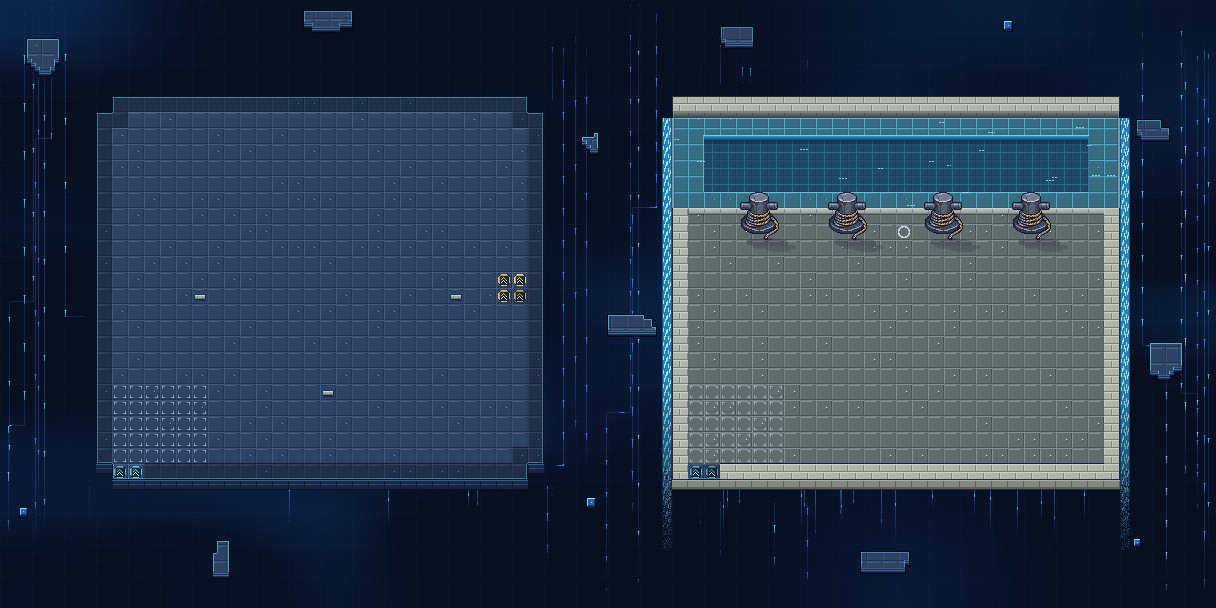
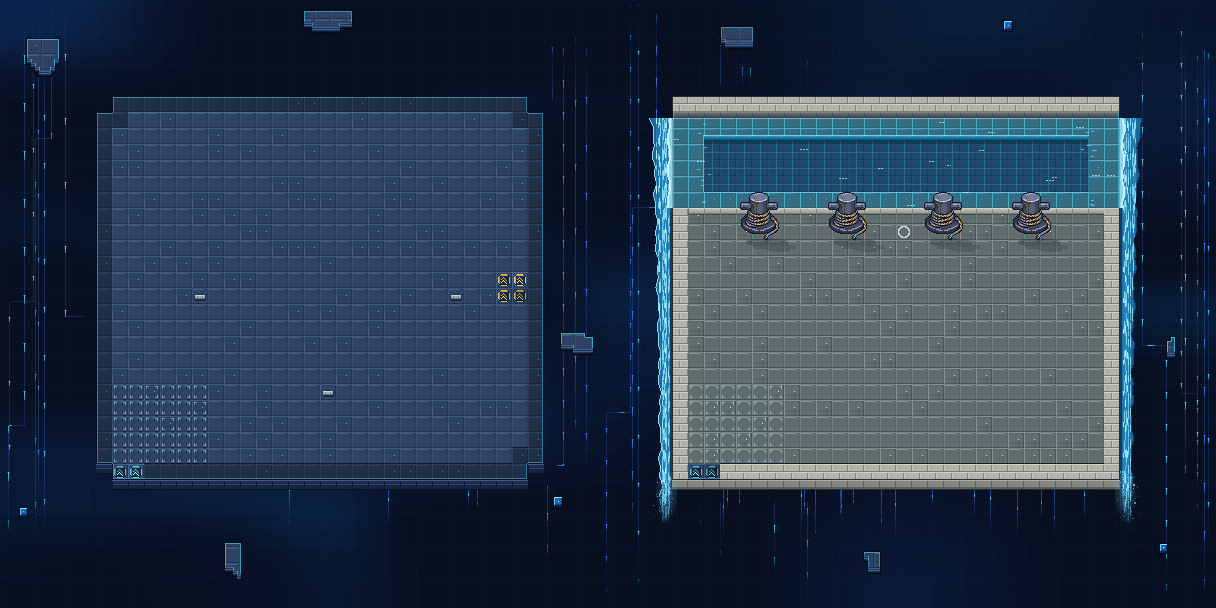
Karte 19: Wasserfaelle an den offenen Beckenseiten ueberarbeitet - Lippe, breiter Vorhang mit Bogen, Licht/Schatten, laufende Straehnen, Zerfall und Gischtwolke unter der Plattform; Fragmente vom Fall weg
Claude-Session: https://claude.ai/code/session_01SaoYHKhnro4LFcPJqjaPsq

diff --git a/tools/karte19_bauen.py b/tools/karte19_bauen.py
@@ -240,47 +240,118 @@ def wasser_klassik(a, wasser, frame):
 
 
 def ueberlauf(a, wasser, land, frame):
-    """Wo die Mauer auf Wasserhoehe fehlt (linke und rechte Seite des Beckens), laeuft das Wasser ueber die Kante:
-    an der Kante ein heller Ueberlaufsaum, dann faellt es als schmaler Wasserfall seitlich an der Plattform entlang
-    nach unten in die Leere und loest sich dort in Datenpixel auf. Quelle = Becken, Abfluss = Leere (Regel Wasser)."""
+    """Wo die Mauer auf Wasserhoehe fehlt (linke und rechte Seite des Beckens), laeuft das Wasser ueber die Kante
+    und faellt seitlich an der Plattform hinab in die Leere (Quelle = Becken, Abfluss = Leere):
+      - Stroemung: im Becken ziehen kurze helle Striche zur offenen Kante hin
+      - Lippe: das Wasser woelbt sich ueber die Kante (heller, unregelmaessiger Saum, 2-4 px nach aussen)
+      - Vorhang: oben breit (die ganze offene Kante), unten schmaler; hinten dunkles Blau, davor helle Straehnen in
+        verschiedenen Laengen und Geschwindigkeiten, Raender leicht gewellt, schwacher cyan Schein in der Leere
+      - Ende: unter der Plattform zerfaellt das Wasser in Tropfen und Datenpixel, die weiter fallen und verloeschen
+    4 Bilder: alles ist auf 4 Bilder abgestimmt (Straehnen 4 px/Bild, Periode 16 px)."""
     f = frame or 0
     Hp, Wp = wasser.shape
     ys, xs = np.nonzero(wasser)
     y0, y1, x0, x1 = ys.min(), ys.max() + 1, xs.min(), xs.max() + 1
-    unten = np.nonzero(land[:, x0])[0].max() + 1                  # Unterkante der Plattform
+    oy = y0 + 6                                                    # Wasser beginnt unter der Nordmauerfront
+    unten = int(np.nonzero(land[:, x0 + 20])[0].max()) + 1         # Unterkante der Plattform
     rs = np.random.RandomState(1921)
+    dunkel, mittel = np.array((20, 78, 128), np.float32), np.array((36, 128, 178), np.float32)
+    hell, weiss = np.array((150, 230, 250), np.float32), np.array((225, 250, 255), np.float32)
+
+    def mix(Y, X, c, s_):
+        if 0 <= Y < Hp and 0 <= X < Wp and not land[Y, X]:
+            a[Y, X] = np.clip(a[Y, X] * (1 - s_) + c * s_, 0, 255).astype(np.uint8)
+
     for seite in (-1, 1):
         kante = x0 if seite < 0 else x1 - 1
-        for dd in range(3):                                       # Ueberlaufsaum an der offenen Kante
-            X = kante - seite * dd
-            a[y0 + 6:y1, X] = np.clip(a[y0 + 6:y1, X] * 0.4 + np.array((200, 245, 255)) * 0.6 * (1 - dd / 3), 0, 255)
-        breite = 10
-        xa = kante + seite                                         # Fall direkt neben der Plattform (in der Leere)
-        cols = [xa + seite * i for i in range(breite)]
-        laenge = unten + 70 - (y0 + 6)
-        for i, X in enumerate(cols):
-            if not (0 <= X < Wp):
-                continue
+        aussen = lambda d: kante + seite * d                       # d px ausserhalb der Plattform
+        # --- Stroemung im Becken zur Kante hin
+        for _ in range(9):
+            Y = rs.randint(oy + 3, y1 - 2)
             ph = rs.randint(16)
-            for t in range(laenge):
-                Y = y0 + 6 + t
-                if Y >= Hp or land[Y, X]:
-                    continue
-                q = t / laenge
-                if q > 0.8 and rs.rand() < (q - 0.8) * 4:          # unten loest es sich in Pixel auf
-                    continue
-                c = np.array((40, 140, 190), np.float32) if i not in (0, breite - 1) else np.array((24, 90, 140), np.float32)
-                if (t - ph - 6 * f) % 14 < 4 and 0 < i < breite - 1:
-                    c = np.array((190, 245, 255), np.float32)       # Wasserstraehnen laufen nach unten
-                s_ = 0.92 * (1 - max(0.0, q - 0.6) / 0.4 * 0.8)
-                a[Y, X] = np.clip(a[Y, X] * (1 - s_) + c * s_, 0, 255).astype(np.uint8)
-        # Gischt an der Kante: kleine helle Tropfen (wechseln je Bild)
-        for _ in range(10):
-            Y, dx = y0 + 6 + rs.randint(0, y1 - y0 - 6), rs.randint(0, breite)
-            if (rs.randint(4) + f) % 4 == 0:
-                X = xa + seite * dx
+            for t in range(5):
+                d_in = (ph + 4 * f + t) % 40                       # 0 = an der Kante
+                X = kante - seite * (40 - d_in)
+                if wasser[Y, X] and t < 3:
+                    a[Y, X] = np.clip(a[Y, X] * 0.4 + hell * 0.6, 0, 255).astype(np.uint8)
+        # --- Schein in der Leere
+        for Y in range(oy, min(Hp, unten + 60)):
+            for d in range(1, 22):
+                X = aussen(d)
                 if 0 <= X < Wp and not land[Y, X]:
-                    a[Y, X] = (230, 250, 255)
+                    q = (Y - oy) / max(1, unten + 60 - oy)
+                    mix(Y, X, np.array((40, 160, 220), np.float32), 0.10 * (1 - d / 22) * (1 - q))
+        # --- Vorhang: oben 20 px breit (Bogen nach aussen), unten 12 px; Licht von links oben
+        laenge = unten + 44 - oy
+        for t in range(laenge):
+            Y = oy + t
+            q = t / laenge
+            aus = max(0.0, (t - (laenge - 40)) / 40.0)                # unten blendet der Strahl aus
+            bogen = 6 * max(0.0, 1 - t / 18.0)                     # oben woelbt sich der Strahl nach aussen
+            breite = int(round(12 + 8 * (1 - q) ** 2 + bogen * 0.3 + 1.0 * np.sin(Y / 7.0 + seite * 1.7)
+                               + 0.8 * np.sin(Y / 3.0 + 2 * np.pi * f / N_FRAMES)))
+            for d in range(1, breite + 1):
+                X = aussen(d)
+                r_ = d / breite                                    # 0 = an der Plattform, 1 = aussen
+                c = mittel * (1 - abs(r_ - 0.45)) + dunkel * abs(r_ - 0.45)
+                if d <= 2:
+                    c = dunkel * 0.8                               # Schattenseite zur Plattform
+                if d == breite:
+                    c = hell if seite < 0 else dunkel * 0.9        # Aussenkante: links im Licht, rechts im Schatten
+                if aus > 0 and rs.rand() < aus * 0.7:
+                    continue                                       # zerfaellt in einzelne Pixel
+                mix(Y, X, c, 0.95 * (1 - aus))
+        # Straehnen: durchgehende feine Linien, darauf helle Abschnitte, die nach unten laufen (4 px je Bild)
+        for k in range(20):
+            d = 3 + rs.randint(0, 14)
+            lang, gap = rs.randint(5, 14), rs.choice((10, 18, 26))
+            ph = rs.randint(gap + lang)
+            for t in range(laenge):
+                Y = oy + t
+                q = t / laenge
+                breite_ = 12 + 8 * (1 - q) ** 2
+                if d >= breite_ - 1:
+                    continue
+                aus = max(0.0, (t - (laenge - 40)) / 40.0)
+                mix(Y, aussen(d), mittel * 1.15, 0.35 * (1 - aus))
+                if (t - ph - 4 * f) % (gap + lang) < lang:
+                    mix(Y, aussen(d), weiss if k % 4 == 0 else hell, 0.8 * (1 - aus))
+        # Gischtwolke unter der Plattform: weiche Tropfen und Datenpixel breiten sich aus, fallen und verloeschen
+        for k in range(70):
+            d0 = rs.randint(0, 16)
+            start = unten + rs.randint(-10, 6)
+            weg = rs.randint(24, 80)
+            pos = ((rs.randint(32) + 4 * f) % 32) / 32.0
+            Y = int(start + pos * weg)
+            X = aussen(d0 + int(pos * rs.randint(-6, 14)))
+            s_ = 0.85 * (1 - pos) ** 1.3
+            gr = 2 if (k % 7 == 0 and pos < 0.5) else 1
+            farbe = weiss if k % 3 == 0 else (hell if k % 3 == 1 else np.array((80, 220, 255), np.float32))
+            for yy_ in range(gr):
+                for xx_ in range(gr):
+                    mix(Y + yy_, X + seite * xx_, farbe, s_)
+        for d in range(0, 26):                                     # Nebel um den Aufprall (weich, statisch)
+            for t in range(-8, 40):
+                Y, X = unten + t, aussen(d - 4)
+                w_ = max(0.0, 1 - (((d - 9) / 13.0) ** 2 + ((t - 10) / 28.0) ** 2))
+                mix(Y, X, np.array((120, 200, 235), np.float32), 0.22 * w_)
+        # --- Lippe: Wasser woelbt sich ueber die Kante
+        for Y in range(oy, y1):
+            w_ = 3 + int(1.5 + 1.5 * np.sin(Y / 5.0 + 2 * np.pi * f / N_FRAMES + seite))
+            for d in range(0, w_ + 1):
+                X = aussen(d)
+                c = weiss if d >= w_ - 1 else hell
+                if d == 0:
+                    a[Y, X] = np.clip(a[Y, X] * 0.3 + hell * 0.7, 0, 255).astype(np.uint8)
+                else:
+                    mix(Y, X, c, 0.9)
+        for Y in (oy, y1 - 1):                                      # Enden der Lippe weich
+            mix(Y, aussen(1), weiss, 0.6)
+        # Gischt an der Lippe (wechselt je Bild)
+        for _ in range(14):
+            Y, d = rs.randint(oy, y1), rs.randint(3, 8)
+            if (rs.randint(4) + f) % 4 == 0:
+                mix(Y, aussen(d), weiss, 0.9)
 
 
 def kaikante(a, kai, wasser=None):
@@ -429,8 +500,8 @@ def bauen(frame=None, speichern=True):
     rest = leer & ~front
     k16.straenge(a, rest & ~nah, frame, seed=1919, zonen=((8, 88), (552, 664), (1128, 1208), (100, 1100)), n=6,
                  y_bereich=(60, 440))
-    stellen = [(20, 40), (40, 300), (16, 500), (300, 18), (720, 30), (1000, 20), (580, 140), (600, 320),
-               (590, 500), (1140, 120), (1150, 340), (1130, 530), (220, 540), (860, 545)]
+    stellen = [(20, 40), (40, 300), (16, 500), (300, 18), (720, 30), (1000, 20), (556, 140), (560, 330),
+               (556, 500), (1172, 150), (1172, 340), (1160, 540), (220, 540), (860, 545)]
     k16.fragmente(a, rest & ~nah, frame, seed=1920, stellen=stellen)
     ueberlauf(a, wasser, land, frame)
     lvl = np.zeros((Hp, Wp), np.uint8)
